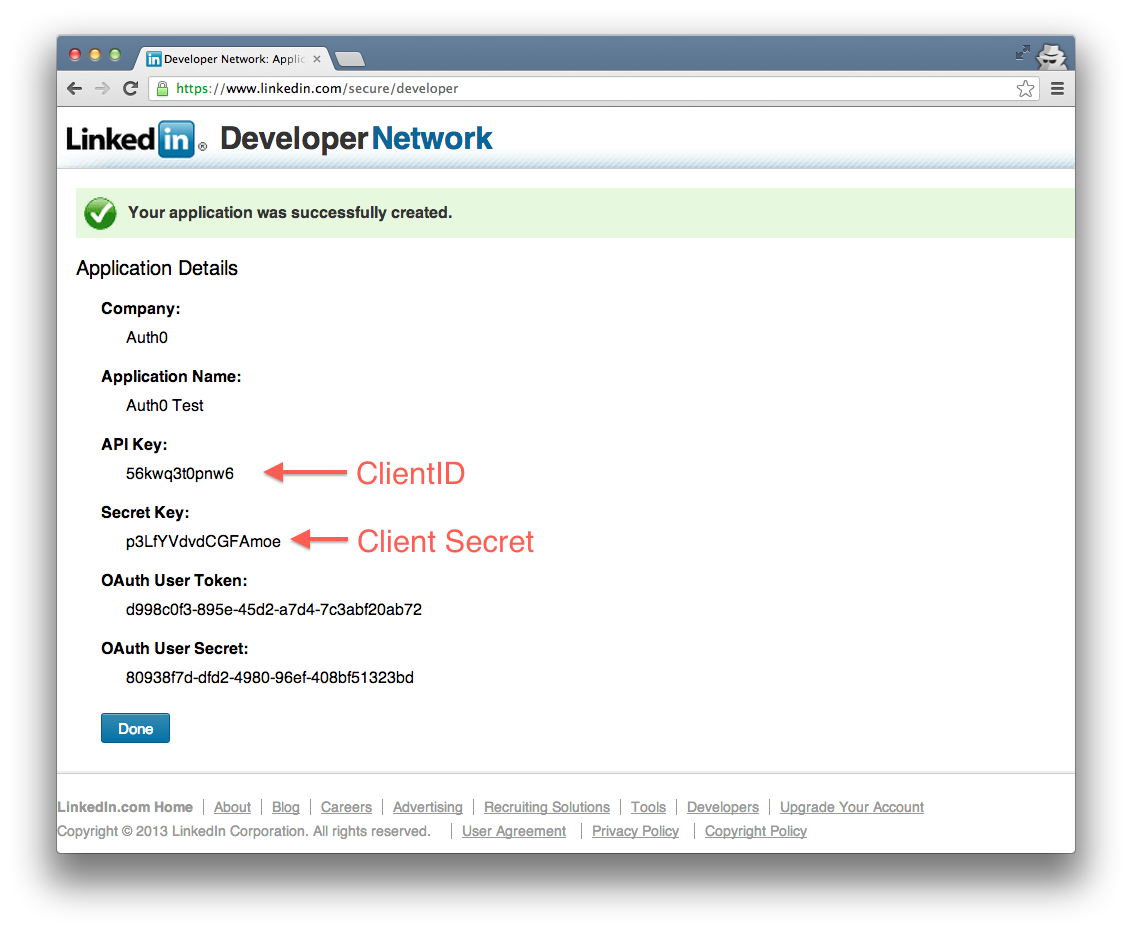
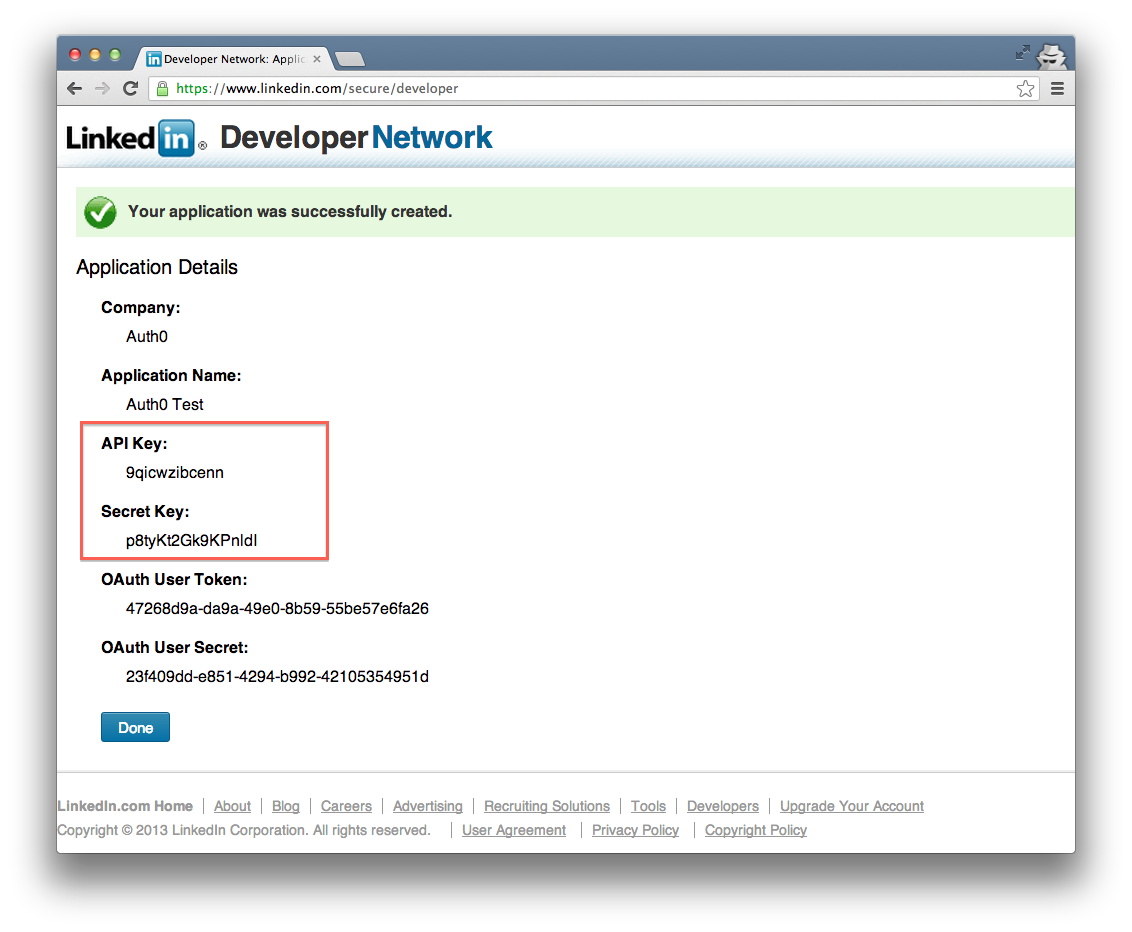
fixed Linekdin instructions

diff --git a/docs/linkedin-clientid.md b/docs/linkedin-clientid.md
@@ -1,4 +1,4 @@
-# Obtaining a ClientId and Client Secret for LinkedId
+# Obtaining an API Key and Secret Key for LinkedId
 
 To configure LinkedIn OAuth2 connections you will need to register Auth0 with LinkedIn on their [developer portal](http://developer.linkedin.com/).
 
@@ -31,9 +31,9 @@ Create a new application and complete the form:
 
 ---
 
-##4. Get your ClientId and ClientSecret
+##4. Get your API Key and Key Secret
 
-Once the application is registered, enter your new `ClientId` and `ClientSecret` into the connection settings in Auth0.
+Once the application is registered, enter your new `API Key` and `Key Secret` into the connection settings in Auth0.
 
 ![](img/linkedin-devportal-5.png)
 
